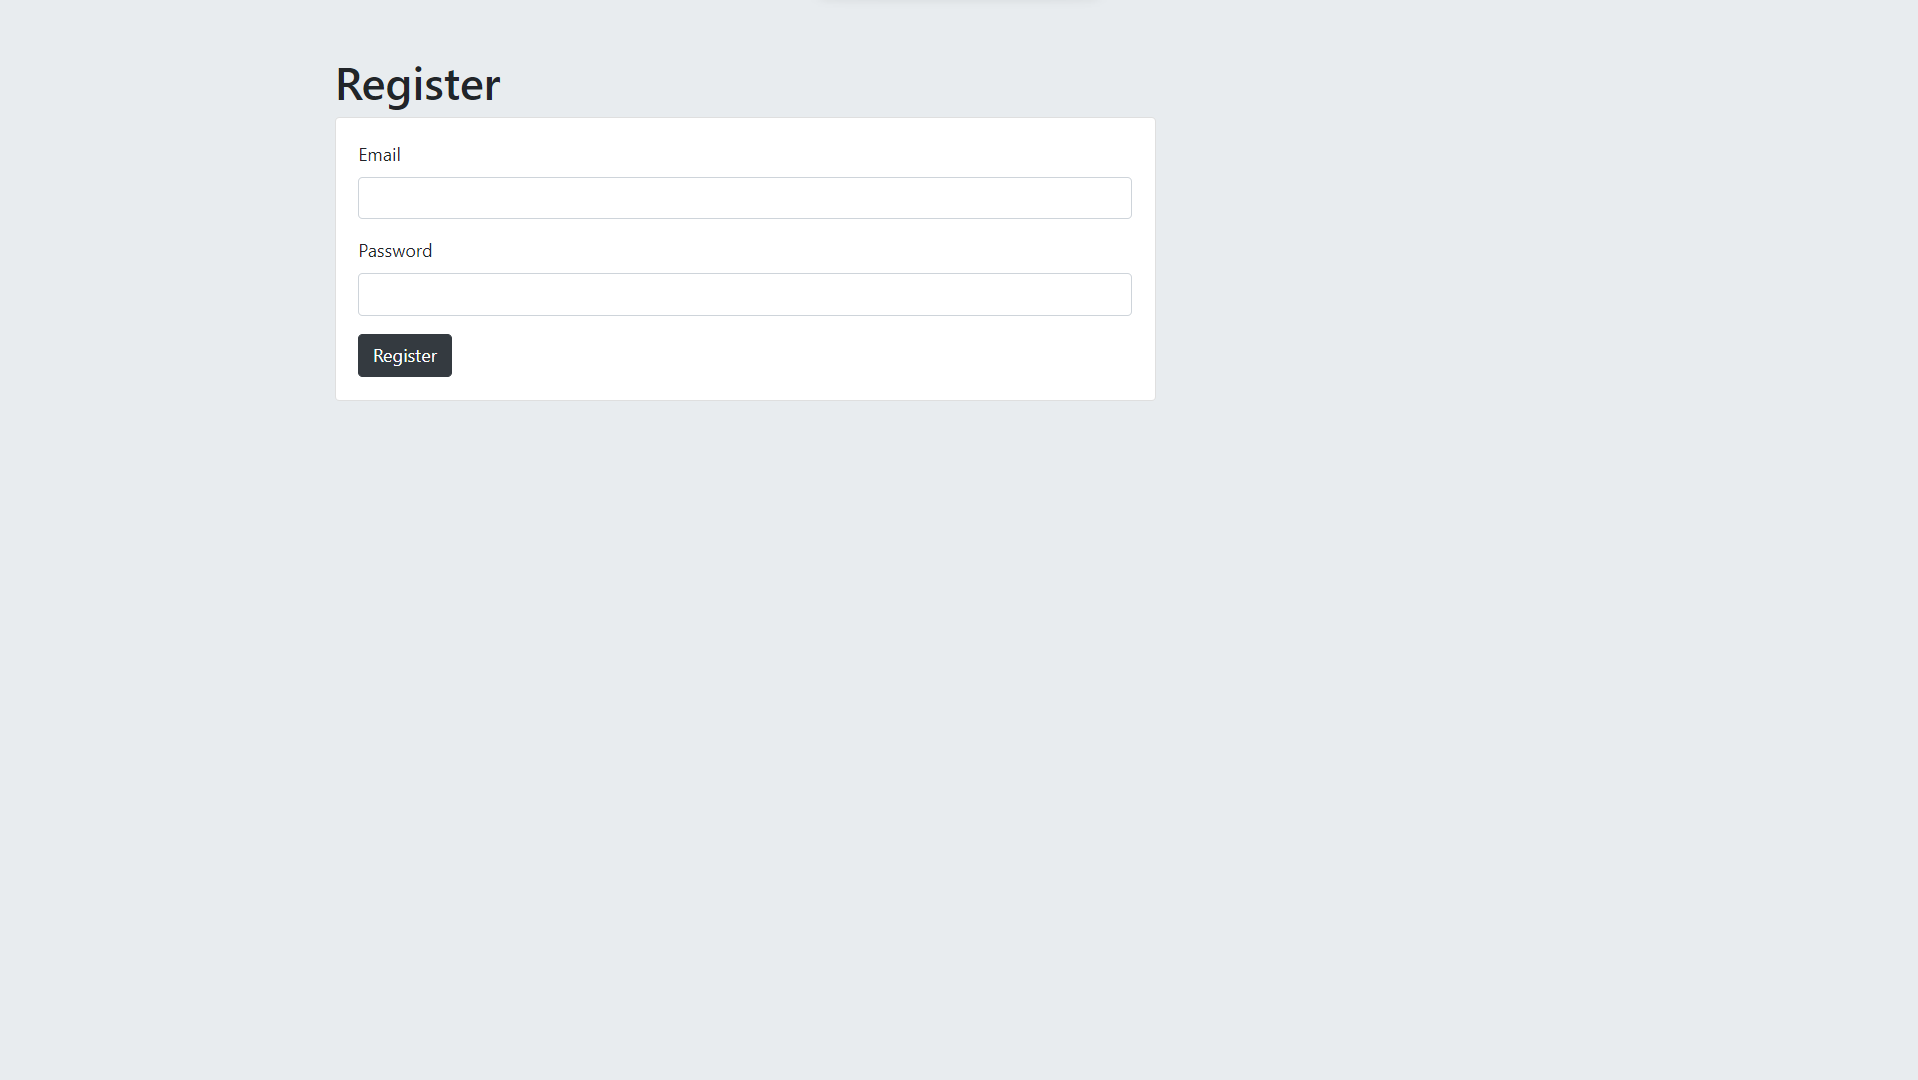
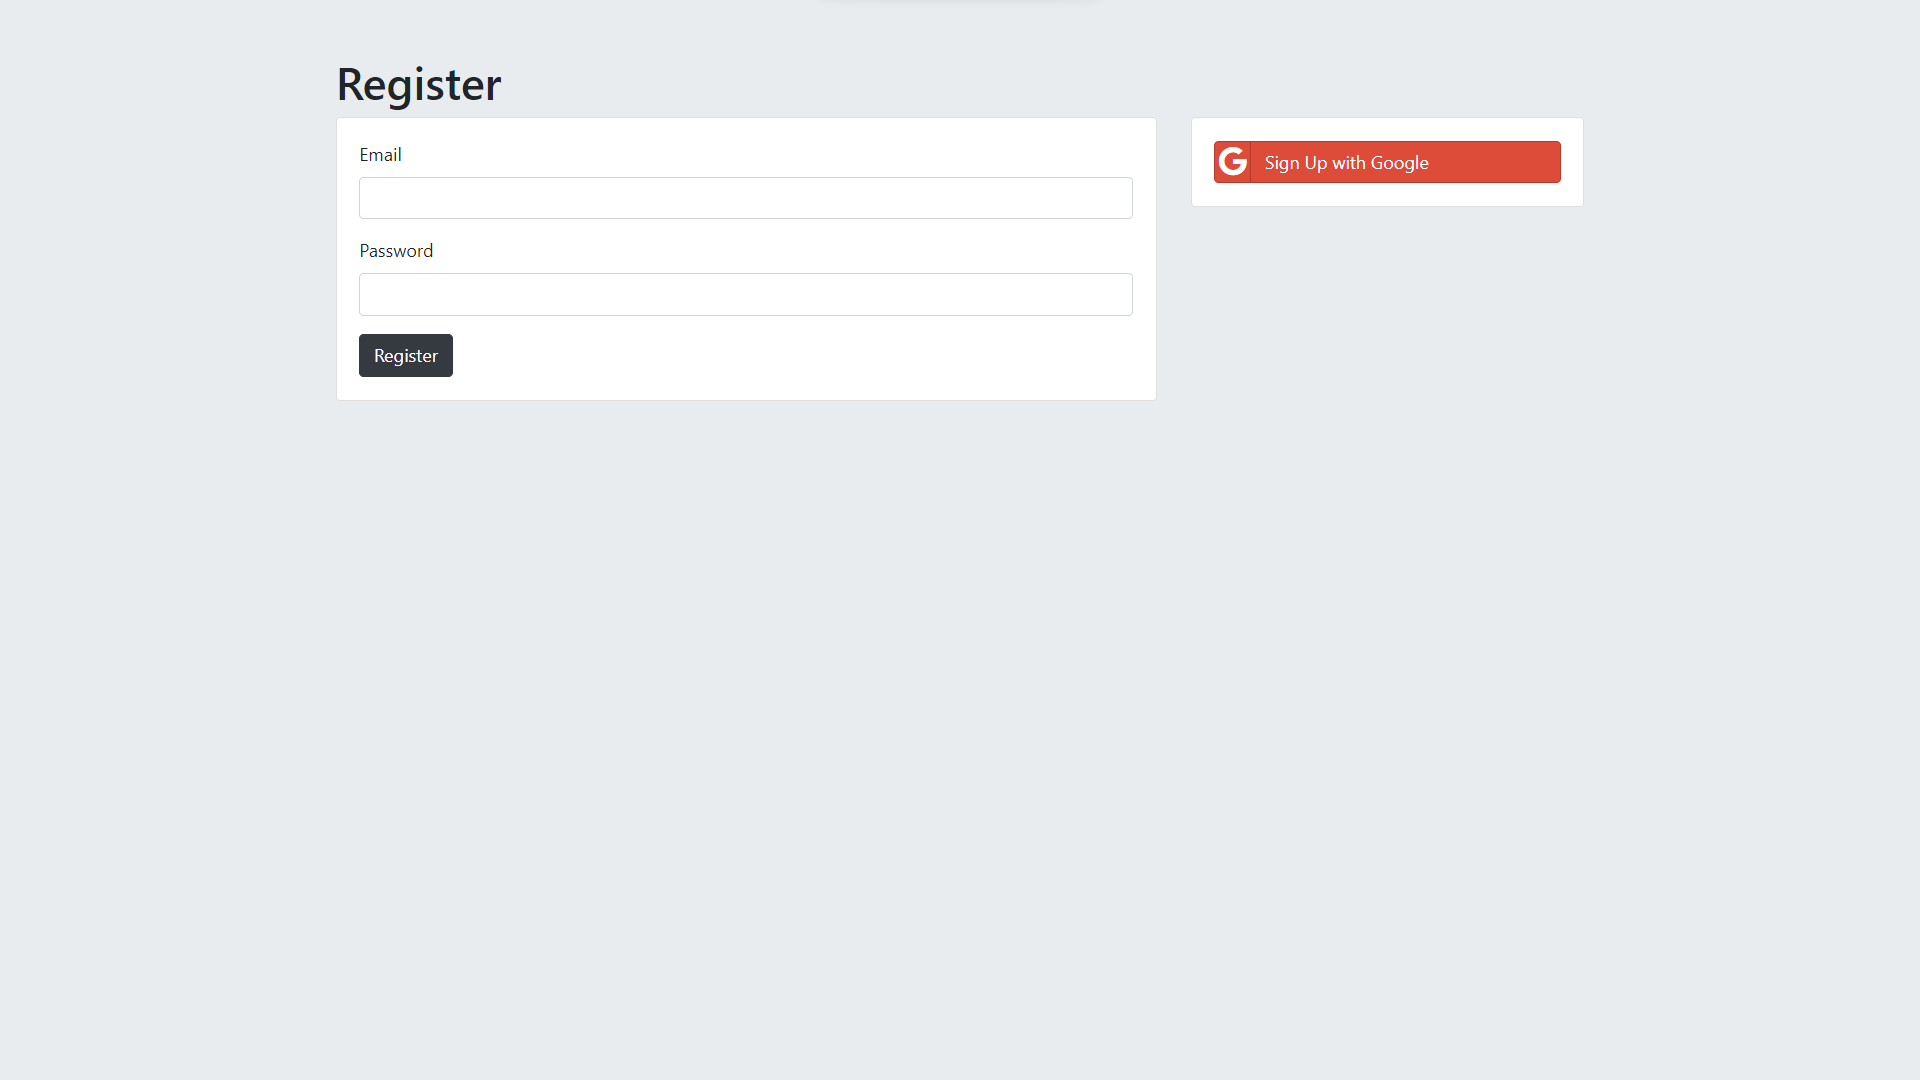
Adding comment to the app.js

diff --git a/app.js b/app.js
@@ -1,6 +1,8 @@
 //jshint esversion:6
-require('dotenv').config();
-const md5 = require('md5');
+
+// ---------- Require packages and modules ---------------
+
+require('dotenv').config(); // This is the package for dotenv.
 const express = require('express');
 const bodyParser = require('body-parser');
 const ejs = require('ejs');
@@ -13,6 +15,9 @@ const findOrCreate = require('mongoose-findorcreate');
 
 const app = express();
 const port = 3000;
+
+// -------------------------------------------
+// -------- Web configuration. ---------------
 
 app.use(bodyParser.urlencoded({extended: true}));
 app.use(express.static("public"));
@@ -27,6 +32,9 @@ app.use(session({
 app.use(passport.initialize());
 app.use(passport.session());
 
+// -------------------------------------------
+// -------- Database configuration. ---------------
+
 mongoose.connect("mongodb://localhost:27017/usersDB", { useNewUrlParser: true });
 
 const userSchema = new mongoose.Schema({
@@ -36,24 +44,32 @@ const userSchema = new mongoose.Schema({
     secret: String 
 });
 
+// ----------------------------------------------
+// -------- Plugins configuration. ---------------
+
 userSchema.plugin(passportLocalMongoose);
 userSchema.plugin(findOrCreate);
 
-//userSchema.plugin(encrypt, { secret: process.env.SECRET_ENCRYPT_KEY, encryptedFields: ['password'] });
+// ----------------------------------------------
+// -------- Schema configuration. ---------------
 
 const User = new mongoose.model("User", userSchema);
 
-passport.use(User.createStrategy());
+// ----------------------------------------------
+// -------- Sessions and cookies with Passport configuration. --------------
 
+passport.use(User.createStrategy());
 passport.serializeUser(function(user, done){
     done(null, user.id);
 });
-
 passport.deserializeUser(function(id, done){
     User.findById(id, function(err, user){
         done(err, user);
     });
 });
+
+// ----------------------------------------------
+// -------- Google Authentication. ---------------
 
 passport.use(new GoogleStrategy({
     clientID: process.env.GOOGLE_CLIENT_ID,
@@ -69,12 +85,14 @@ passport.use(new GoogleStrategy({
   }
 ));
 
+// ----------------------------------
 // -------------- GET ---------------
 
 app.get("/", (req, res) => {
     res.render('home');
 });
 
+// --- Google authentication routes -----
 app.route('/auth/google')
   .get(passport.authenticate('google', {
     scope: ['profile']
@@ -86,6 +104,8 @@ app.get('/auth/google/secrets',
         res.redirect('/secrets');
 });
 
+// --- ---------------- -----
+
 app.get("/login", (req, res) => {
     res.render('login');
 });
@@ -95,8 +115,8 @@ app.get("/register", (req, res) => {
 });
 
 app.get("/secrets", (req, res) => {
-    if(req.isAuthenticated()){
-        User.find({"secret": {$ne:null}}, function(err, usersList){
+    if(req.isAuthenticated()){  // This allows to visit the webpage only if the user is authenticate.
+        User.find({"secret": {$ne:null}}, function(err, usersList){ // Get only all the users with their secrets
             if(err){
                 console.log(err);
                 res.redirect("/login");
@@ -110,7 +130,7 @@ app.get("/secrets", (req, res) => {
 });
 
 app.get("/submit", (req, res) => {
-    if(req.isAuthenticated()){
+    if(req.isAuthenticated()){  // This allows to visit the webpage only if the user is authenticate.
         res.render("submit");
     } else {
         res.redirect("/login");
@@ -118,7 +138,7 @@ app.get("/submit", (req, res) => {
 });
 
 app.get('/logout', function(req, res, next) {
-    req.logout(function(err) {
+    req.logout(function(err) {  // This allows to visit the webpage only if the user is authenticate.
       if (err) { return next(err); }
       res.redirect('/');
     });
@@ -159,7 +179,7 @@ app.post("/login", (req, res) => {
 
 app.post("/submit", (req, res) => {
     const submittedSecret = req.body.secret;
-    User.findById(req.user.id, function(err, userFounded){
+    User.findById(req.user.id, function(err, userFounded){ // Find the user by its ID and assign a secret.
         if(err){
             console.log(err);
         } else {
@@ -168,7 +188,6 @@ app.post("/submit", (req, res) => {
             res.redirect("/submit")
         }
     });
-    // console.log(req.user);
 });
 
 // -------------- PORTS ---------------

diff --git a/README.md b/README.md
@@ -1,6 +1,7 @@
 # Authentication Project.
 
-The Authentication project was built using EJS, Node, Express and MongoDB. The purpose of this project is to implement a sign in web application where each user must be registered in this app in order to have completely access.
+The Authentication project was built using EJS, Node, Express and MongoDB. 
+The purpose of this project is to implement a sign in web application where each user must be registered in this app in order to have completely access.
 
 ## Node packages.
 
@@ -33,6 +34,8 @@ In the section below, you can find images about this web aaplication in producti
 ![](images/secrets_1.png).
 
 ![](images/secrets_2.png).
+
+![](images/secrets_3.png).
 
 ## Author
 
